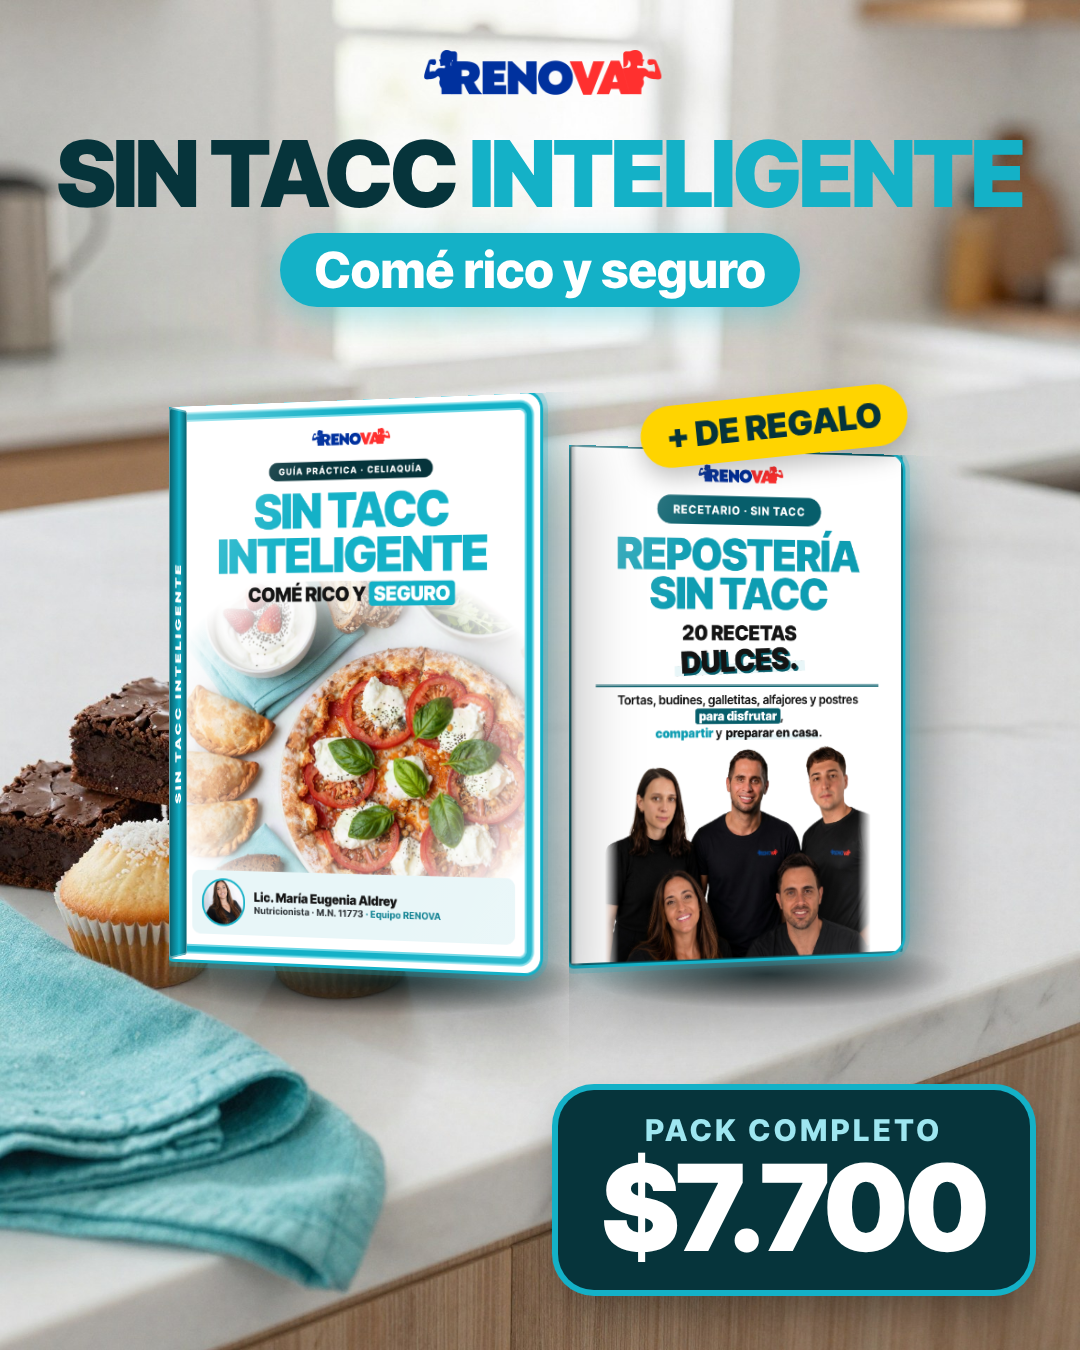
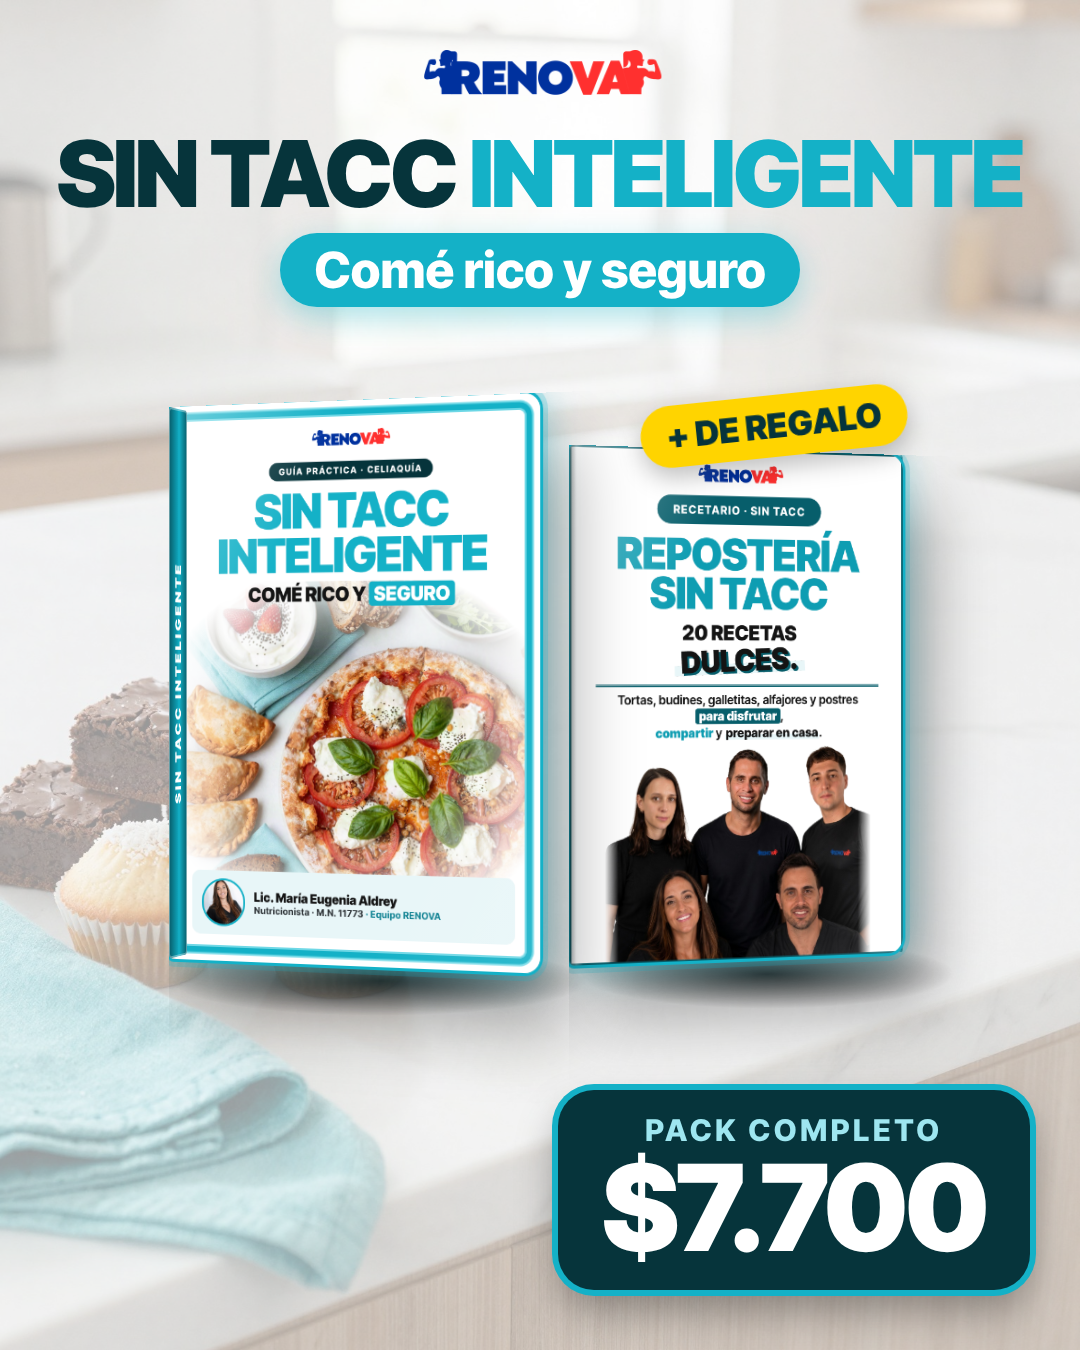
Sin TACC: fondos más claros y anuncio con testimonio real
Claude-Session: https://claude.ai/code/session_016d9STMTFsB819XAn27rxwK

diff --git a/fuentes/landing/mockups/anuncio_3_testimonio.html b/fuentes/landing/mockups/anuncio_3_testimonio.html
@@ -1,0 +1,142 @@
+<!doctype html><meta charset="utf-8"><style>/* RENOVA · design system — tipografías locales.
+   ../../design-system/fonts/ se reemplaza por la ruta a fuentes/design-system/fonts/ (lo hace design_system.css()). */
+@font-face{font-family:"InterW";font-weight:400;font-style:normal;src:url("../../design-system/fonts/inter-latin-400-normal.woff2") format("woff2")}
+@font-face{font-family:"InterW";font-weight:500;font-style:normal;src:url("../../design-system/fonts/inter-latin-500-normal.woff2") format("woff2")}
+@font-face{font-family:"InterW";font-weight:600;font-style:normal;src:url("../../design-system/fonts/inter-latin-600-normal.woff2") format("woff2")}
+@font-face{font-family:"InterW";font-weight:700;font-style:normal;src:url("../../design-system/fonts/inter-latin-700-normal.woff2") format("woff2")}
+@font-face{font-family:"InterW";font-weight:800;font-style:normal;src:url("../../design-system/fonts/inter-latin-800-normal.woff2") format("woff2")}
+@font-face{font-family:"InterW";font-weight:900;font-style:normal;src:url("../../design-system/fonts/inter-latin-900-normal.woff2") format("woff2")}
+@font-face{font-family:"InterTightW";font-weight:100 900;font-style:normal;src:url("../../design-system/fonts/inter-tight-latin-var.woff2") format("woff2")}
+
+/* RENOVA · design system — tokens
+   Fuente única de colores, tipografía, espacios, radios y sombras para ebooks, landings y creativos.
+   Paleta = la del ebook (medida en el PDF). Landings, creativos y videos usan exactamente estos colores.
+   Ver README.md para el uso de cada uno. */
+:root{
+  /* ---- Color: turquesa de marca (el de nachoportillo.com) */
+  --rnv-turquesa:#14B1C7;          /* rellenos, líneas, números grandes, botones */
+  --rnv-turquesa-titulo:#0E9DB2;   /* palabras destacadas en títulos, botón del ebook */
+  --rnv-turquesa-oscuro:#0A7F90;   /* texto chico en turquesa (pills, etiquetas, links) */
+  --rnv-turquesa-profundo:#075E6B; /* texto sobre fondo turquesa claro */
+  --rnv-turquesa-fondo:#E8F6F8;    /* fondo de recuadros y tarjetas */
+  --rnv-turquesa-borde:#CDEEF3;    /* bordes suaves */
+  --rnv-turquesa-claro:#6FD8E6;    /* acentos sobre fondo oscuro (portada de la landing) */
+  /* ---- Color: logo (solo portada y logo, no para texto corrido) */
+  --rnv-azul:#0033A0;
+  --rnv-rojo:#E63333;
+  --rnv-rojo-fondo:#FCEBEB;   /* fondo rojo claro (tapa de Glúteos Fuertes en el gimnasio) */
+  /* MÉTODO 40 (submarca para hombres 40+): negro, grises y rojo */
+  --m40-negro:#0E0F10;
+  --m40-grafito:#1C1E21;
+  --m40-gris:#5E6368;
+  --m40-gris-claro:#F2F3F4;
+  --m40-borde:#DADDE0;
+  --m40-rojo:#D62828;
+  --m40-rojo-oscuro:#A11D1D;
+  /* ---- Color: sello de garantía (solo el sello dorado) */
+  --rnv-oro:#E2A928;
+  --rnv-oro-claro:#F9DE7E;
+  --rnv-oro-oscuro:#8A5A0B;
+  /* ---- Color: neutros */
+  --rnv-tinta:#141414;             /* títulos */
+  --rnv-texto:#2A2F33;             /* cuerpo */
+  --rnv-gris:#555C62;              /* bajadas, notas, texto secundario */
+  --rnv-linea:#E3ECEE;             /* separadores */
+  --rnv-fondo:#F4FAFB;             /* fondo alternativo de secciones */
+  --rnv-oscuro:#141414;            /* barras, pie y recuadros oscuros (el negro del ebook) */
+  --rnv-blanco:#FFFFFF;
+
+  /* ---- Degradés y sombras */
+  --rnv-degrade:linear-gradient(135deg,#14B1C7 0%,#0E9DB2 100%);   /* solo turquesas del ebook */
+  --rnv-sombra:0 10px 30px rgba(20,20,20,.08);
+  --rnv-sombra-fuerte:0 24px 54px rgba(20,20,20,.16);
+  --rnv-sombra-boton:0 14px 30px rgba(20,177,199,.38),inset 0 -4px 0 rgba(0,0,0,.12),inset 0 1px 0 rgba(255,255,255,.35);
+
+  /* ---- Tipografía */
+  --rnv-fuente:"InterW","Inter",system-ui,sans-serif;            /* todo el texto */
+  --rnv-fuente-display:"InterTightW","Inter Tight","InterW",sans-serif; /* titulares de web y redes */
+
+  /* Escala del ebook (A4, se lee en el celular: cuerpo mínimo 15 pt) */
+  --rnv-pdf-portada:37pt;
+  --rnv-pdf-h1:26pt;
+  --rnv-pdf-h2:18pt;
+  --rnv-pdf-h3:16pt;
+  --rnv-pdf-cuerpo:16pt;
+  --rnv-pdf-chico:13pt;
+  --rnv-pdf-etiqueta:7.6pt;
+
+  /* Escala web (landing) */
+  --rnv-web-h1:clamp(46px,7vw,80px);
+  --rnv-web-h2:clamp(28px,3.6vw,42px);
+  --rnv-web-cuerpo:17px;
+  --rnv-web-chico:14px;
+
+  /* Escala redes (lienzo de 1080 px de ancho: se ve a ~36% en el celular) */
+  --rnv-red-gancho:104px;   /* titular principal */
+  --rnv-red-titulo:72px;
+  --rnv-red-subtitulo:48px;
+  --rnv-red-cuerpo:40px;    /* mínimo para que se lea en el celular */
+  --rnv-red-etiqueta:28px;
+
+  /* ---- Espacios y radios */
+  --rnv-esp-1:8px; --rnv-esp-2:16px; --rnv-esp-3:24px; --rnv-esp-4:40px; --rnv-esp-5:64px;
+  --rnv-radio:14px;
+  --rnv-radio-grande:24px;
+  --rnv-radio-pill:999px;
+
+  /* ---- Página A4 del ebook */
+  --rnv-a4-margen:21mm 17mm 17mm;
+
+  /* ---- Zonas seguras de Instagram y Facebook en 1080×1920 (historias y reels) */
+  --rnv-zona-arriba:250px;
+  --rnv-zona-abajo:340px;
+}
+
+*{margin:0;padding:0;box-sizing:border-box}
+body{width:var(--w);height:var(--h);overflow:hidden;position:relative;
+ background:radial-gradient(ellipse 55% 50% at 50% 46%,rgba(20,177,199,.45),transparent 70%),
+ radial-gradient(ellipse 80% 30% at 50% 100%,rgba(20,177,199,.15),transparent 70%),#0b1214}
+.grid{position:absolute;inset:0;opacity:.07;background-image:linear-gradient(#14B1C7 1px,transparent 1px),linear-gradient(90deg,#14B1C7 1px,transparent 1px);background-size:60px 60px;
+ mask-image:radial-gradient(ellipse at 50% 60%,#000 20%,transparent 70%)}
+.st{position:absolute;inset:0;perspective:2400px}
+.bk{position:absolute;transform-style:preserve-3d}
+.fr{position:absolute;inset:0;border-radius:5px 16px 16px 5px;overflow:hidden;
+ box-shadow:0 0 0 3px #14B1C7,0 0 0 8px rgba(20,177,199,.22),0 0 60px rgba(20,177,199,.7),50px 70px 100px rgba(0,0,0,.6)}
+.fr img{width:100%;height:100%;object-fit:cover;display:block}
+.fr::before{content:"";position:absolute;inset:0;z-index:2;background:linear-gradient(115deg,rgba(255,255,255,.4) 0%,rgba(255,255,255,0) 30%,rgba(255,255,255,0) 72%,rgba(255,255,255,.12))}
+.fr::after{content:"";position:absolute;left:0;top:0;bottom:0;width:4%;z-index:2;background:linear-gradient(90deg,rgba(0,0,0,.35),rgba(255,255,255,.28),transparent)}
+.sp{position:absolute;left:0;top:0;height:100%;transform-origin:left;transform:rotateY(90deg);backface-visibility:hidden;border-radius:4px;
+ background:linear-gradient(90deg,#075E6B,#0E9DB2 45%,#14B1C7 55%,#075E6B);box-shadow:inset 0 0 0 2px rgba(255,255,255,.35)}
+.sp.r{left:auto;right:0;transform-origin:right;transform:rotateY(-90deg)}
+.sp span{position:absolute;left:50%;top:50%;transform:translate(-50%,-50%) rotate(-90deg);white-space:nowrap;font:900 var(--fs) InterTightW,sans-serif;letter-spacing:.18em;color:#fff}
+.pg{position:absolute;top:1.5%;bottom:1.5%;right:-1.5%;width:3%;background:repeating-linear-gradient(90deg,#f3f3f3 0 2px,#d9d9d9 2px 3px);transform:rotateY(90deg) translateZ(-2px);transform-origin:left}
+.cn{position:absolute;width:6%;aspect-ratio:1;border:4px solid #F9FEFF;z-index:3;filter:drop-shadow(0 0 8px #14B1C7)}
+.cn.a{left:-2.5%;top:-1.8%;border-right:0;border-bottom:0}.cn.b{right:-2.5%;bottom:-1.8%;border-left:0;border-top:0}
+.shadow{position:absolute;height:70px;border-radius:50%;background:radial-gradient(ellipse,rgba(0,0,0,.75),transparent 70%)}
+
+body{background:#fff}
+.bg{position:absolute;inset:0;background-size:cover;background-position:center}
+.bg::after{content:"";position:absolute;inset:0;background:rgba(255,255,255,.6)}
+.msg{position:absolute;z-index:6;border-radius:28px;overflow:hidden;box-shadow:0 0 0 5px #14B1C7,0 25px 50px rgba(0,0,0,.3)}.msg img{display:block;width:100%}
+.lbl{position:absolute;z-index:7;font:800 30px InterTightW;color:#06343B;background:#fff;border:3px solid #14B1C7;padding:10px 24px;border-radius:999px}
+.stars{position:absolute;z-index:7;font:900 54px/1 InterTightW;color:#FFC400;letter-spacing:6px;text-shadow:0 3px 8px rgba(0,0,0,.2)}
+.logo{position:absolute;left:50%;transform:translateX(-50%);height:58px;z-index:5}
+.t{position:absolute;left:0;right:0;text-align:center;z-index:5;font-family:InterTightW,sans-serif}
+.t h1{font:900 92px/0.95 InterTightW;letter-spacing:-.03em;color:#06343B;text-transform:uppercase}
+.t h1 span{color:#14B1C7}
+.t h2{display:inline-block;margin-top:16px;font:800 50px/1 InterTightW;color:#fff;background:#14B1C7;padding:12px 34px;border-radius:999px;box-shadow:0 10px 30px rgba(20,177,199,.35)}
+.fr{box-shadow:0 0 0 3px #14B1C7,0 0 0 8px rgba(20,177,199,.22),0 0 40px rgba(20,177,199,.45),30px 50px 70px rgba(0,0,0,.35)}
+.cn{display:none}
+.tag{position:absolute;z-index:9;font:900 34px/1 InterTightW;color:#06343B;background:#FFD400;padding:14px 26px;border-radius:999px;transform:rotate(-6deg);box-shadow:0 10px 24px rgba(0,0,0,.25)}
+.precio{position:absolute;z-index:9;right:50px;bottom:60px;background:#06343B;color:#fff;border-radius:36px;padding:22px 44px;text-align:center;box-shadow:0 0 0 6px #14B1C7,0 20px 40px rgba(0,0,0,.35)}
+.precio small{display:block;font:800 30px InterTightW;letter-spacing:.12em;color:#9EE6F0}
+.precio b{display:block;font:900 120px/1 InterTightW;letter-spacing:-.03em}
+.pills{position:absolute;z-index:6;left:40px;right:40px;display:flex;gap:14px;justify-content:center;flex-wrap:wrap}
+.pills span{background:rgba(255,255,255,.95);border:3px solid #14B1C7;color:#06343B;font:800 27px InterTightW;padding:12px 22px;border-radius:999px;box-shadow:0 6px 16px rgba(0,0,0,.1)}
+.card{position:absolute;z-index:4;border-radius:22px;overflow:hidden;box-shadow:0 0 0 4px #14B1C7,20px 30px 50px rgba(0,0,0,.3)}
+.card img{display:block;width:100%}
+.plus{position:absolute;z-index:8;width:90px;height:90px;border-radius:50%;background:#14B1C7;color:#fff;font:900 70px/86px InterTightW;text-align:center;box-shadow:0 0 0 8px #fff}
+.sello{position:absolute;z-index:9;width:230px;height:230px;border-radius:50%;background:#fff;display:flex;flex-direction:column;align-items:center;justify-content:center;text-align:center;transform:rotate(-8deg);
+ box-shadow:0 0 0 8px #14B1C7,0 0 0 18px rgba(20,177,199,.25),0 20px 50px rgba(0,0,0,.3)}
+.sello b{font:900 80px/0.95 InterTightW;color:#141414;letter-spacing:-.04em}.sello i{font:900 36px/1 InterTightW;font-style:normal;color:#0A7F90;margin-top:6px}
+body{--w:1080px;--h:1350px}</style><div class="bg" style="background-image:url(pack/st_fondo1.jpg)"></div><div class="st"><img class="logo" src="../img/logo.png" style="top:50px"><div class="t" style="top:130px"><h1>Sin TACC <span>Inteligente</span></h1><h2>Comé rico y seguro</h2></div><div class="stars" style="left:60px;top:410px">★★★★★</div><div class="msg" style="left:60px;top:490px;width:560px;transform:rotate(-2deg)"><img src="../img/msg_3.jpg"></div><div class="lbl" style="left:90px;top:1010px">Alumna de RENOVA</div><div class="shadow" style="left:676.5px;top:917px;width:346.5px"></div><div class="bk" style="left:660px;top:470px;width:330px;height:467px;z-index:3;transform:rotateY(-16deg)"><div class="sp" style="width:33px;--fs:14px"><span>SIN TACC INTELIGENTE</span></div><div class="fr"><img src="pack/tapa_sintacc_comida.png"></div><div class="cn a"></div><div class="cn b"></div></div><div class="shadow" style="left:791.5px;top:1125px;width:241.5px"></div><div class="bk" style="left:780px;top:820px;width:230px;height:325px;z-index:4;transform:rotateY(-16deg)"><div class="sp" style="width:23px;--fs:10px"><span>REPOSTERÍA SIN TACC</span></div><div class="fr"><img src="pack/tapa_reposteria.png"></div><div class="cn a"></div><div class="cn b"></div></div><div class="tag" style="left:800px;top:790px;font-size:28px;white-space:nowrap">DE REGALO</div></div>

diff --git a/fuentes/landing/mockups/anuncio_1_precio.html b/fuentes/landing/mockups/anuncio_1_precio.html
@@ -116,6 +116,10 @@ body{width:var(--w);height:var(--h);overflow:hidden;position:relative;
 
 body{background:#fff}
 .bg{position:absolute;inset:0;background-size:cover;background-position:center}
+.bg::after{content:"";position:absolute;inset:0;background:rgba(255,255,255,.6)}
+.msg{position:absolute;z-index:6;border-radius:28px;overflow:hidden;box-shadow:0 0 0 5px #14B1C7,0 25px 50px rgba(0,0,0,.3)}.msg img{display:block;width:100%}
+.lbl{position:absolute;z-index:7;font:800 30px InterTightW;color:#06343B;background:#fff;border:3px solid #14B1C7;padding:10px 24px;border-radius:999px}
+.stars{position:absolute;z-index:7;font:900 54px/1 InterTightW;color:#FFC400;letter-spacing:6px;text-shadow:0 3px 8px rgba(0,0,0,.2)}
 .logo{position:absolute;left:50%;transform:translateX(-50%);height:58px;z-index:5}
 .t{position:absolute;left:0;right:0;text-align:center;z-index:5;font-family:InterTightW,sans-serif}
 .t h1{font:900 92px/0.95 InterTightW;letter-spacing:-.03em;color:#06343B;text-transform:uppercase}

diff --git a/fuentes/landing/mockups/anuncio_2_incluye.html b/fuentes/landing/mockups/anuncio_2_incluye.html
@@ -116,6 +116,10 @@ body{width:var(--w);height:var(--h);overflow:hidden;position:relative;
 
 body{background:#fff}
 .bg{position:absolute;inset:0;background-size:cover;background-position:center}
+.bg::after{content:"";position:absolute;inset:0;background:rgba(255,255,255,.6)}
+.msg{position:absolute;z-index:6;border-radius:28px;overflow:hidden;box-shadow:0 0 0 5px #14B1C7,0 25px 50px rgba(0,0,0,.3)}.msg img{display:block;width:100%}
+.lbl{position:absolute;z-index:7;font:800 30px InterTightW;color:#06343B;background:#fff;border:3px solid #14B1C7;padding:10px 24px;border-radius:999px}
+.stars{position:absolute;z-index:7;font:900 54px/1 InterTightW;color:#FFC400;letter-spacing:6px;text-shadow:0 3px 8px rgba(0,0,0,.2)}
 .logo{position:absolute;left:50%;transform:translateX(-50%);height:58px;z-index:5}
 .t{position:absolute;left:0;right:0;text-align:center;z-index:5;font-family:InterTightW,sans-serif}
 .t h1{font:900 92px/0.95 InterTightW;letter-spacing:-.03em;color:#06343B;text-transform:uppercase}

diff --git a/fuentes/landing/mockups/anuncio_4_3d.html b/fuentes/landing/mockups/anuncio_4_3d.html
@@ -116,6 +116,10 @@ body{width:var(--w);height:var(--h);overflow:hidden;position:relative;
 
 body{background:#fff}
 .bg{position:absolute;inset:0;background-size:cover;background-position:center}
+.bg::after{content:"";position:absolute;inset:0;background:rgba(255,255,255,.6)}
+.msg{position:absolute;z-index:6;border-radius:28px;overflow:hidden;box-shadow:0 0 0 5px #14B1C7,0 25px 50px rgba(0,0,0,.3)}.msg img{display:block;width:100%}
+.lbl{position:absolute;z-index:7;font:800 30px InterTightW;color:#06343B;background:#fff;border:3px solid #14B1C7;padding:10px 24px;border-radius:999px}
+.stars{position:absolute;z-index:7;font:900 54px/1 InterTightW;color:#FFC400;letter-spacing:6px;text-shadow:0 3px 8px rgba(0,0,0,.2)}
 .logo{position:absolute;left:50%;transform:translateX(-50%);height:58px;z-index:5}
 .t{position:absolute;left:0;right:0;text-align:center;z-index:5;font-family:InterTightW,sans-serif}
 .t h1{font:900 92px/0.95 InterTightW;letter-spacing:-.03em;color:#06343B;text-transform:uppercase}

diff --git a/fuentes/landing/mockups/anuncios_sintacc.js b/fuentes/landing/mockups/anuncios_sintacc.js
@@ -1,7 +1,7 @@
 const { chromium } = require('playwright');
 (async () => {
   const b = await chromium.launch(); const out = __dirname + '/../../../sin-tacc-inteligente/creativos/';
-  for (const n of ['anuncio_1_precio', 'anuncio_2_incluye', 'anuncio_4_3d']) {
+  for (const n of ['anuncio_1_precio', 'anuncio_2_incluye', 'anuncio_3_testimonio', 'anuncio_4_3d']) {
     const p = await b.newPage({ viewport: { width: 1080, height: 1350 } });
     await p.goto('file://' + __dirname + '/' + n + '.html'); await p.waitForTimeout(700);
     await p.screenshot({ path: out + n + '.png' }); await p.close();

diff --git a/fuentes/landing/mockups/anuncios_sintacc.py b/fuentes/landing/mockups/anuncios_sintacc.py
@@ -8,6 +8,10 @@ with contextlib.redirect_stdout(io.StringIO()):
 X = """
 body{background:#fff}
 .bg{position:absolute;inset:0;background-size:cover;background-position:center}
+.bg::after{content:"";position:absolute;inset:0;background:rgba(255,255,255,.6)}
+.msg{position:absolute;z-index:6;border-radius:28px;overflow:hidden;box-shadow:0 0 0 5px #14B1C7,0 25px 50px rgba(0,0,0,.3)}.msg img{display:block;width:100%}
+.lbl{position:absolute;z-index:7;font:800 30px InterTightW;color:#06343B;background:#fff;border:3px solid #14B1C7;padding:10px 24px;border-radius:999px}
+.stars{position:absolute;z-index:7;font:900 54px/1 InterTightW;color:#FFC400;letter-spacing:6px;text-shadow:0 3px 8px rgba(0,0,0,.2)}
 .logo{position:absolute;left:50%;transform:translateX(-50%);height:58px;z-index:5}
 .t{position:absolute;left:0;right:0;text-align:center;z-index:5;font-family:InterTightW,sans-serif}
 .t h1{font:900 92px/0.95 InterTightW;letter-spacing:-.03em;color:#06343B;text-transform:uppercase}
@@ -48,6 +52,13 @@ pg("anuncio_2_incluye", "st_fondo2.jpg", '<div style="position:absolute;left:0;r
    '<div class="card" style="left:200px;top:1000px;width:190px;transform:rotate(-5deg)"><img src="../../../sin-tacc-inteligente/creativos/bonus_comunidad.png"></div>'
    '<div class="card" style="left:445px;top:990px;width:190px"><img src="../../../sin-tacc-inteligente/creativos/bonus_pausa.png"></div>'
    '<div class="tag" style="left:680px;top:1080px;transform:rotate(-3deg);font-size:30px">+ 2 BONUS:<br>Comunidad RENOVA<br>y Pausa activa</div>')
+# 3 · testimonio real (msg_3: alumna de RENOVA, sin nombre; el programa en general, no el ebook Sin TACC)
+pg("anuncio_3_testimonio", "st_fondo1.jpg", LOGO.format(y=50) + TIT.format(y=130) +
+   '<div class="stars" style="left:60px;top:410px">★★★★★</div>' +
+   '<div class="msg" style="left:60px;top:490px;width:560px;transform:rotate(-2deg)"><img src="../img/msg_3.jpg"></div>' +
+   '<div class="lbl" style="left:90px;top:1010px">Alumna de RENOVA</div>' +
+   book(*ST, 660, 470, 330, -16, 3) + book(*RP, 780, 820, 230, -16, 4) +
+   '<div class="tag" style="left:800px;top:790px;font-size:28px;white-space:nowrap">DE REGALO</div>')
 # 4 · 3D en podio
 pg("anuncio_4_3d", "st_fondo4.jpg", LOGO.format(y=50) + TIT.format(y=130) +
    book(*RP, 580, 470, 330, 24, 2) + book(*ST, 210, 385, 400, -24, 3) +
